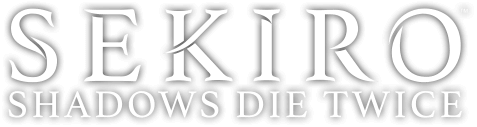
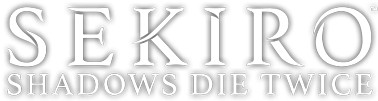
Edição Velocidade

diff --git a/css/style.css b/css/style.css
@@ -170,6 +170,7 @@ body, html{
 #premios{
     background: url('../images/baclAll.jpg') fixed;
     height: 100%; 
+    overflow: hidden;
 }
 #char{position: relative;}
 #chara, #circle{
@@ -218,7 +219,8 @@ body, html{
     transition: 1s;
 }
 
-@media screen and (max-width: 1024px){
+
+@media screen and (max-width: 994px){
     #frase{
         padding-top: 60vw;
         font-size: 2.5vw;
@@ -353,7 +355,7 @@ body, html{
     }
 }
 
-@media screen and (min-width: 1400px){
+@media screen and (min-width: 1370px){
     #historia p{
         margin-top: 2vw;
         width: 50%;
@@ -422,7 +424,7 @@ body, html{
     }
     #linha2{ height: 40px;
         text-align: center;
-        padding: 2vw 0;
+        padding: 2vw 0 3vw 0;
         display: block;
     }
     #menu ul li{
@@ -451,11 +453,11 @@ body, html{
         width: 26%;
     }
     #linha2 img{
-        width: 1300px;
+        width: 1320px;
         height: 30px;
     }
     .content{
-        width: 1200px;
+        width: 1300px;
     }
     #video iframe{
         margin-bottom: 40px;
@@ -475,5 +477,20 @@ body, html{
         width: 1500px;
         text-align: center;
     }
+    .fas .fa-play{
+        position: absolute;
+        bottom: 70px;
+    }
 
+}
+
+@media screen and (min-width: 1280px) and (max-height: 800px){
+    #inicio{
+        background-position: 55% 100%;
+        background-size: 120%;
+    }
+    #premios{
+        background: url('../images/baclAll.jpg') fixed;
+        height: 94%; 
+    }
 }

diff --git a/index.html b/index.html
@@ -22,7 +22,7 @@
                         <li class="back">Inimigos</li>
                     </ul>
                 </div> 
-                <img src="images/ac.png" class="logoSek" alt="">   
+                <img src="images/a.png" class="logoSek" alt="">   
             </div>
             <div id="frase"><b>Nada irá te deter na retomada de sua honra</b></div>
             <div id="logo">
@@ -86,6 +86,7 @@
         
         <div class="images responsive">
             <div class="boxInimigo" id="lastClone">
+                <i class="fas fa-play"></i>
                 <img src="images/inimigo1.png" alt="" >
             </div>
             <div class="boxInimigo">
